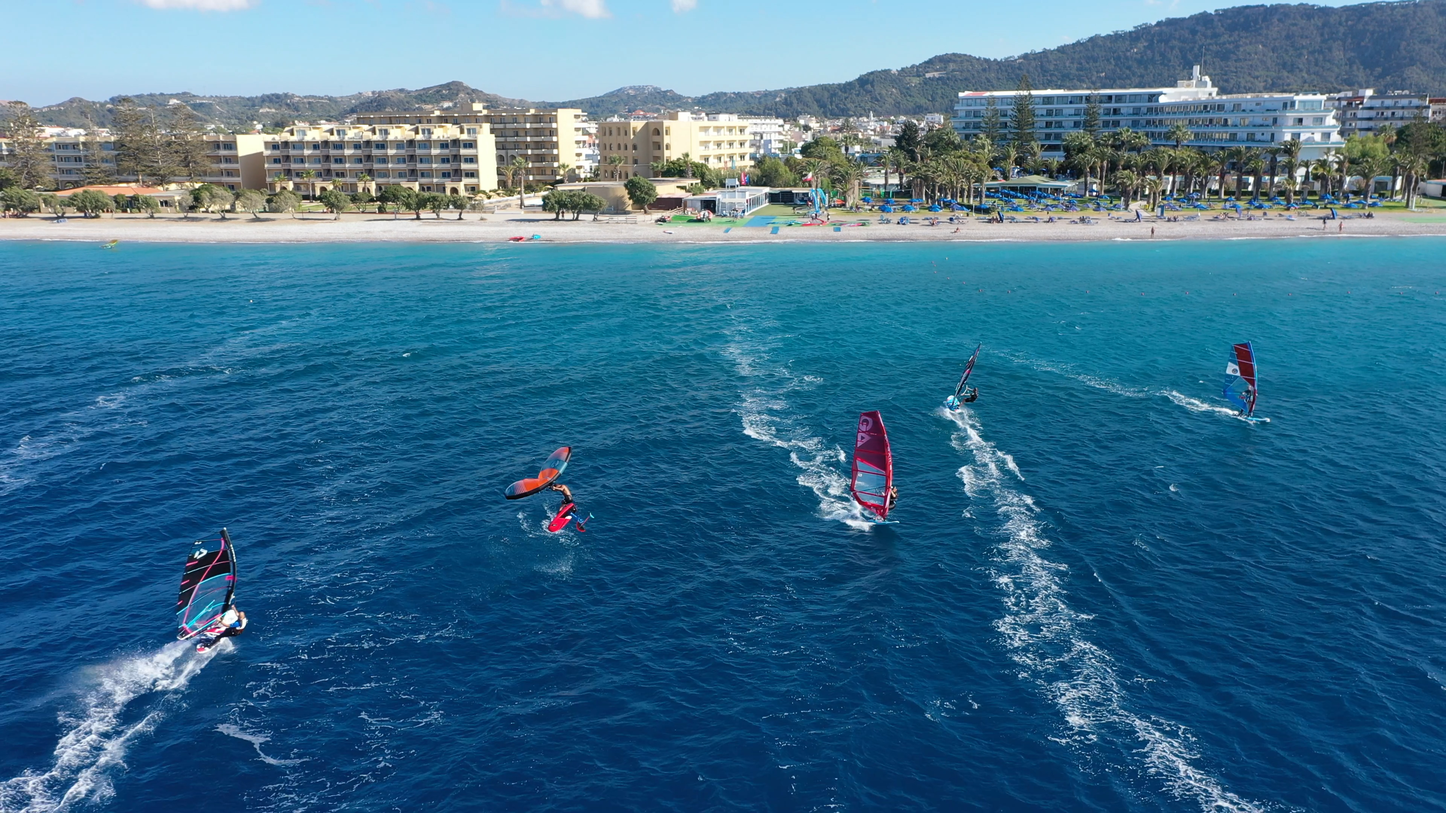
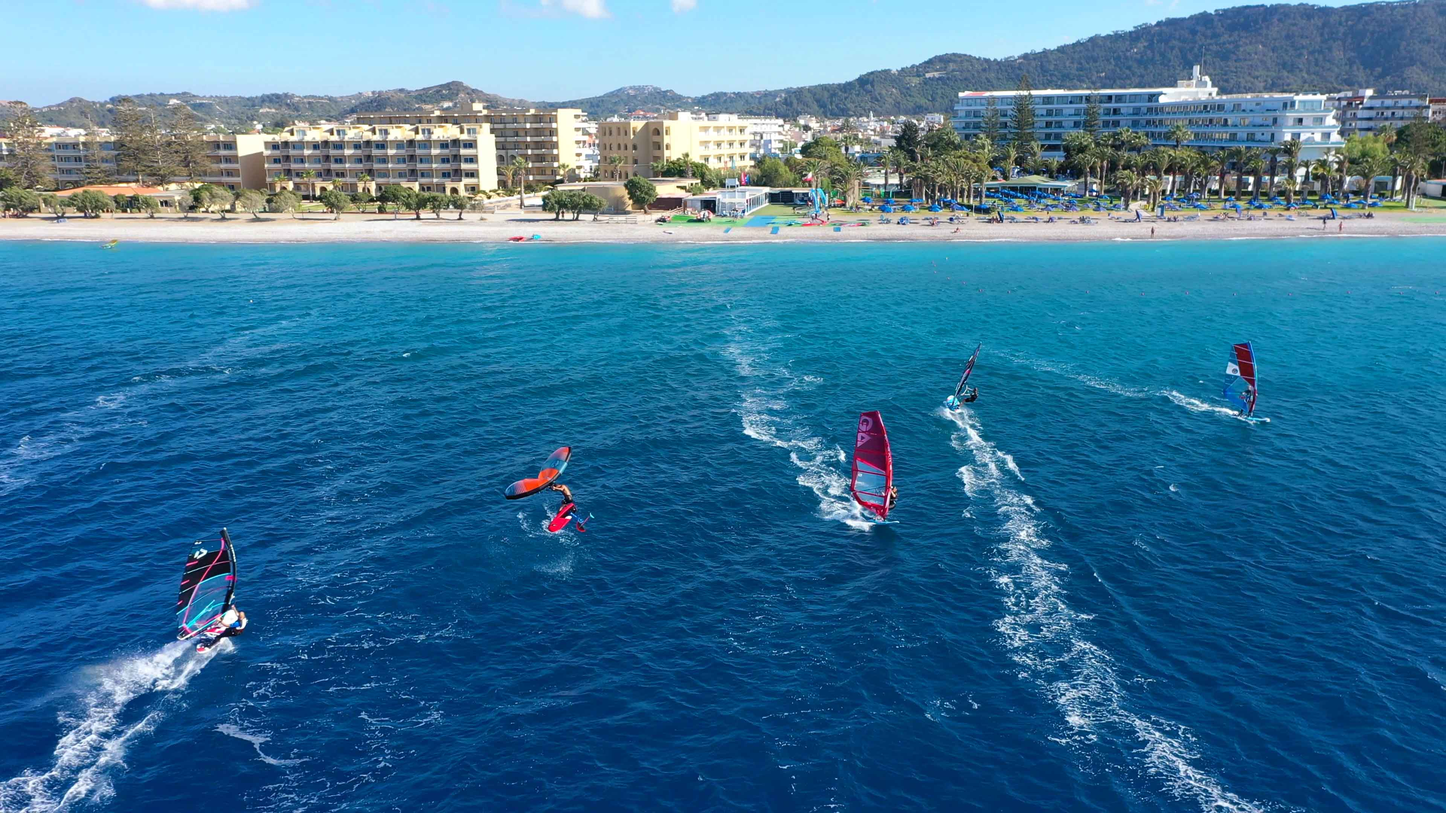
Update pro center website content

diff --git a/app/page.js b/app/page.js
@@ -23,7 +23,7 @@ export default function Home() {
         id="windsurf"
         image="/images/windsurf-discipline.jpg"
         alt="Windsurfer sailing off Rhodes"
-        kicker="DISCIPLINE 01"
+      kicker="WINDSURF PRO CENTER"
         title="Windsurfing"
         paragraphs={[
           "From flat-water first tacks to full planing on a chop, our racks are set up for every level — freeride, freestyle and slalom gear tuned to the day's wind.",
@@ -41,7 +41,7 @@ export default function Home() {
         reverse
         image="/images/wingfoil-sunset.jpg"
         alt="Wing foiler jumping off Rhodes"
-        kicker="DISCIPLINE 02"
+        kicker="WING FOIL PRO CENTER"
         title="Wing Foil"
         paragraphs={[
           "The newest addition to the station, and the fastest-growing. Foil boards, wings in every size, and coaches who can get most beginners up and gliding within a few sessions.",

diff --git a/components/Equipment.jsx b/components/Equipment.jsx
@@ -1,10 +1,10 @@
 const BRANDS = [
-  { name: "Duotone", note: "Sails & wings" },
-  { name: "JP Australia", note: "Boards" },
-  { name: "Neilpryde", note: "Sails & rigs" },
-  { name: "Tabou", note: "Boards" },
+  { name: "Duotone", note: "Boards,Sails & Wings" },
+  { name: "JP Australia", note: "Wind & Wing Boards" },
+  { name: "Neilpryde", note: "Sails, rigs & Wings" },
+  { name: "Tabou", note: "Wind & Wing Boards" },
   { name: "Severne", note: "Sails" },
-  { name: "GA Sails", note: "Sails & rigs" },
+  { name: "GA Sails", note: "Sails, rigs & Wings" },
 ];
 
 export default function Equipment() {

diff --git a/components/Hero.jsx b/components/Hero.jsx
@@ -32,7 +32,7 @@ export default function Hero() {
         </h1>
         <p className="hero-sub">
           Windsurfing and wing foil holidays on one of the windiest
-          coastlines in the Mediterranean — steady thermals, warm water,
+          coastlines in the Mediterranean — steady thermals, warm water, single and family-friendly,
           all levels welcome.
         </p>
         <div className="hero-actions">

diff --git a/components/Nav.jsx b/components/Nav.jsx
@@ -3,7 +3,7 @@ export default function Nav() {
     <header className="nav">
       <div className="nav-inner">
         <a href="/" className="brand" aria-label="Rhodes Wind Center home">
-          RHODES<span>WIND</span>CENTER
+          RHODES<span>PRO</span>CENTER
         </a>
         <nav className="links">
           <a href="/#windsurf">Windsurfing</a>
